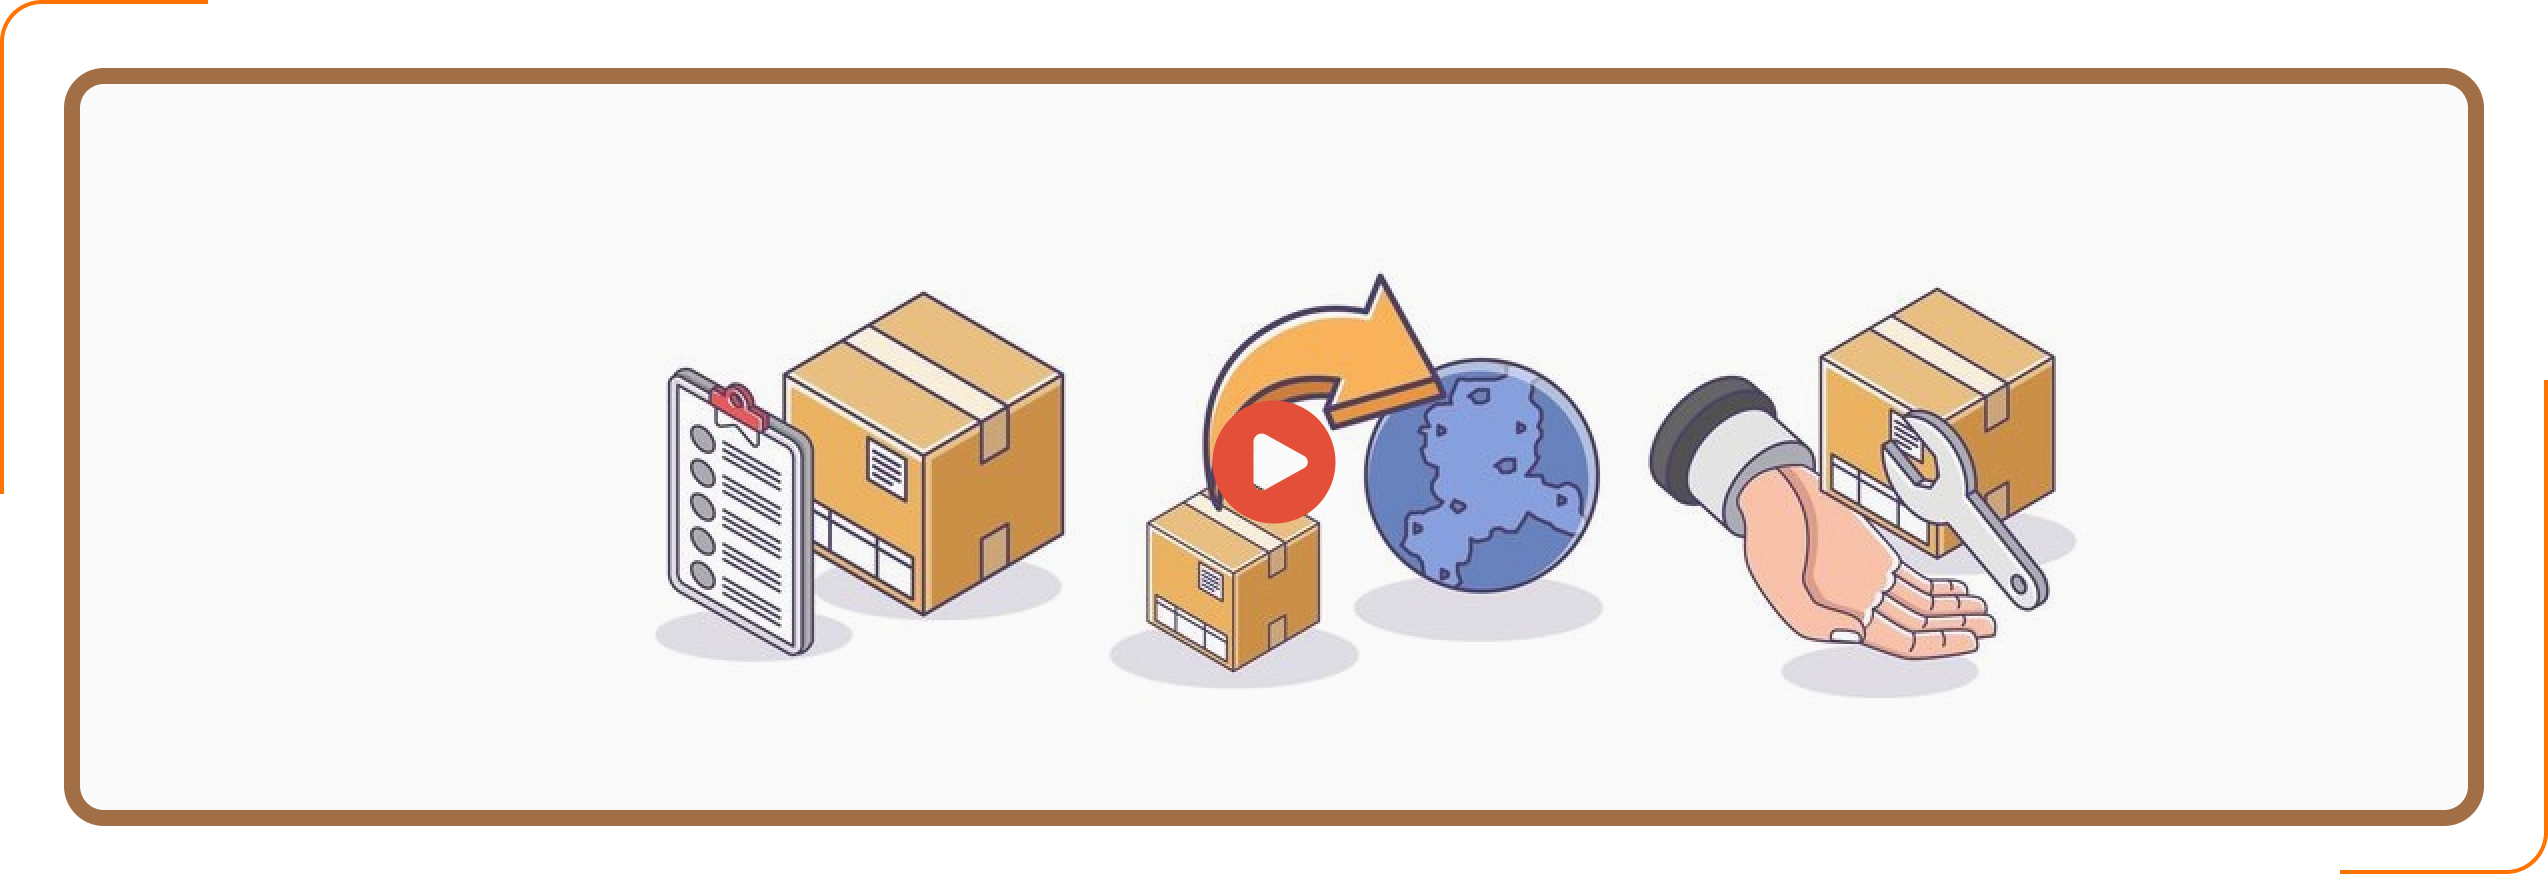
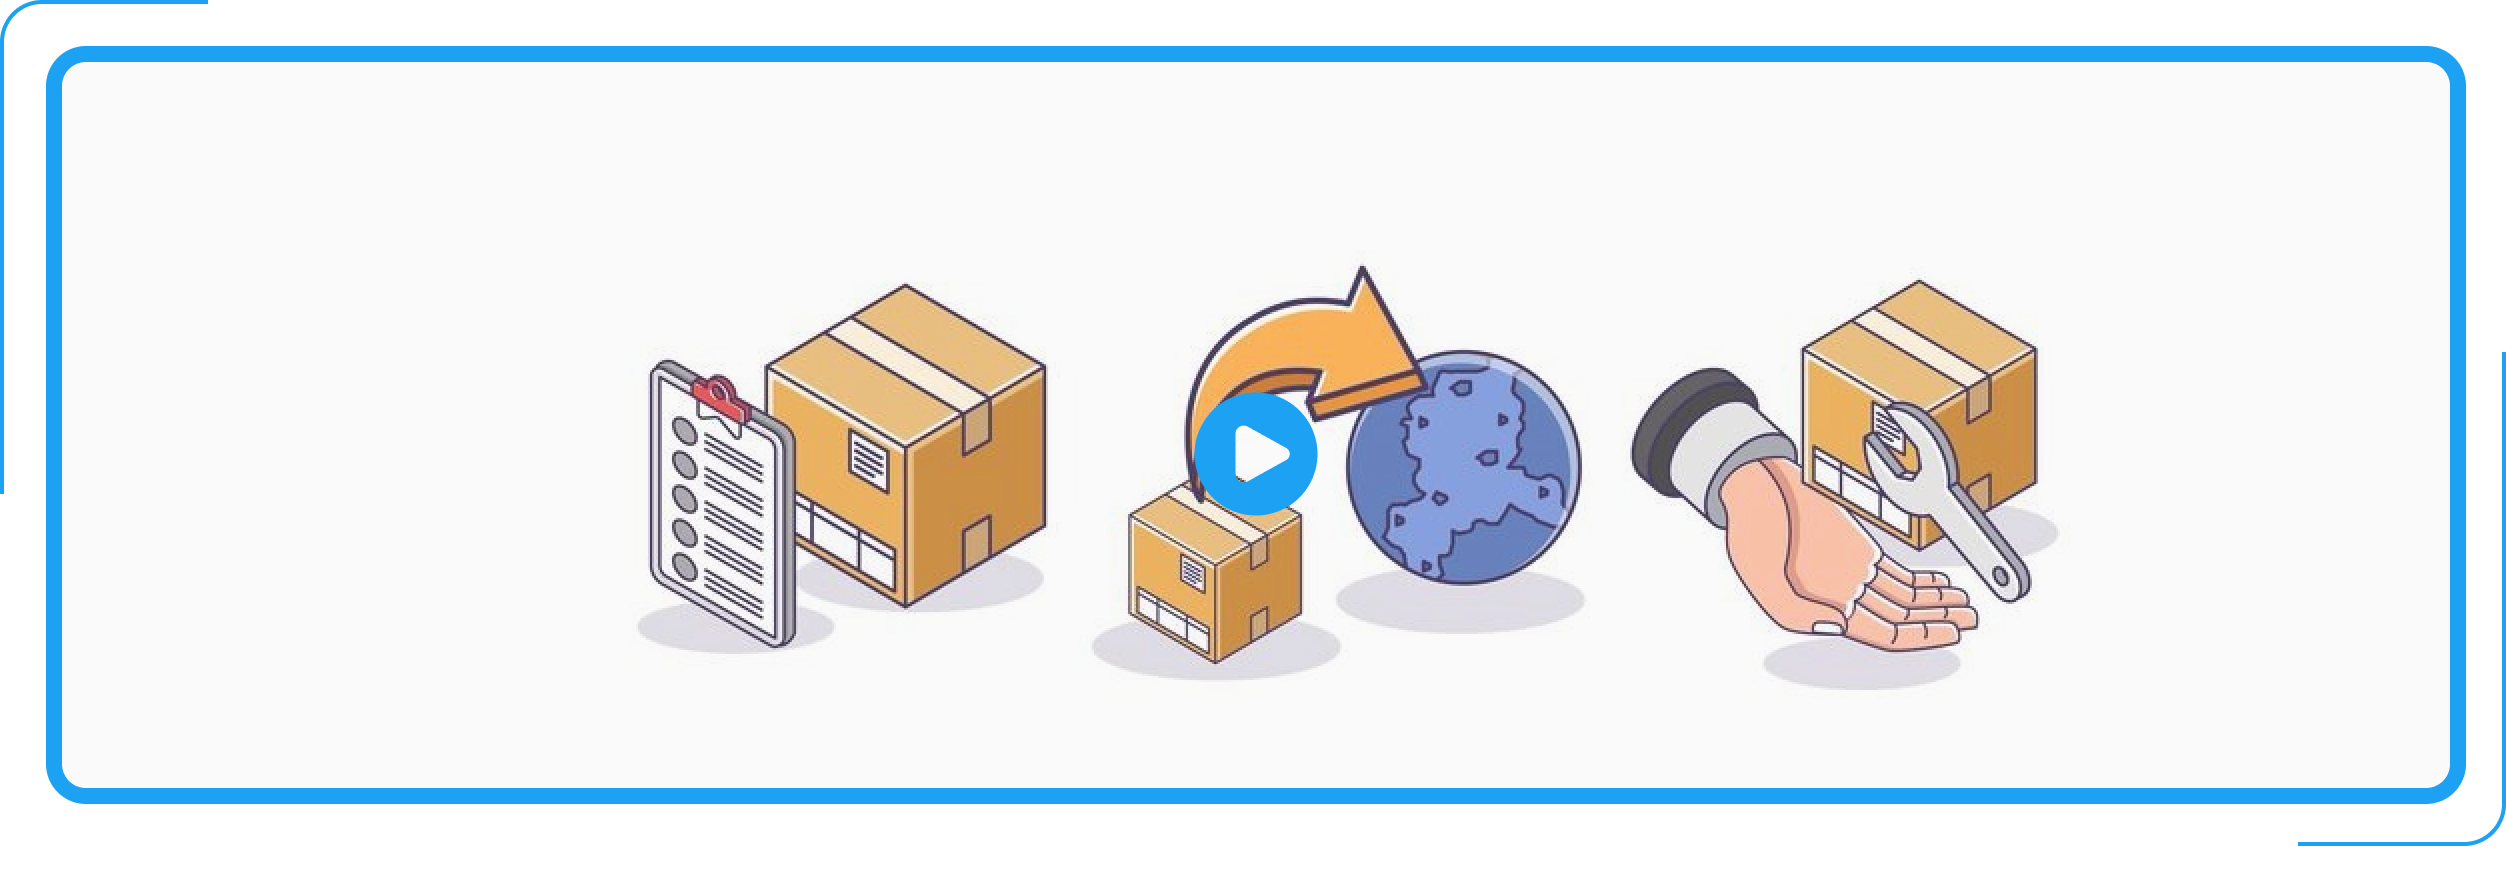
UI updated

Changed region(s): [[0.0, 0.0, 1.0, 1.0], [0.249, 0.3089, 0.8404, 0.7723], [0.4669, 0.3707, 0.498, 0.4016]]

diff --git a/src/pages/LearningHub/f2.jsx b/src/pages/LearningHub/f2.jsx
@@ -1,5 +1,5 @@
 import React from "react";
-import Img6 from "../../assets/Learninghub/f2banner.png";
+import Img6 from "../../assets/Learninghub/f2.png";
 
 const TradeStrategiesSection = () => {
   return (
@@ -10,14 +10,10 @@ const TradeStrategiesSection = () => {
           <img
             src={Img6}
             alt="Advanced trade strategies"
-            className="w-full h-64 sm:h-80 lg:h-96 object-cover rounded-xl"
+            className="w-full h-64 sm:h-80 lg:h-96 object-contain bg-white"
           />
 
-          <span className="absolute top-0 left-0 w-12 h-12 border-t-2 border-l-2 border-[#1DA1F2] rounded-tl-md"></span>
-          <span className="absolute top-0 right-0 w-12 h-12 border-t-2 border-r-2 border-[#1DA1F2] rounded-tr-md"></span>
-          <span className="absolute bottom-0 left-0 w-12 h-12 border-b-2 border-l-2 border-[#1DA1F2] rounded-bl-md"></span>
-          <span className="absolute bottom-0 right-0 w-12 h-12 border-b-2 border-r-2 border-[#1DA1F2] rounded-br-md"></span>
-
+         
           {/* Play button overlay */}
           <div className="absolute inset-0 flex items-center justify-center">
             <div className="bg-white bg-opacity-80 rounded-full p-5 shadow-md hover:bg-opacity-100 transition cursor-pointer">
